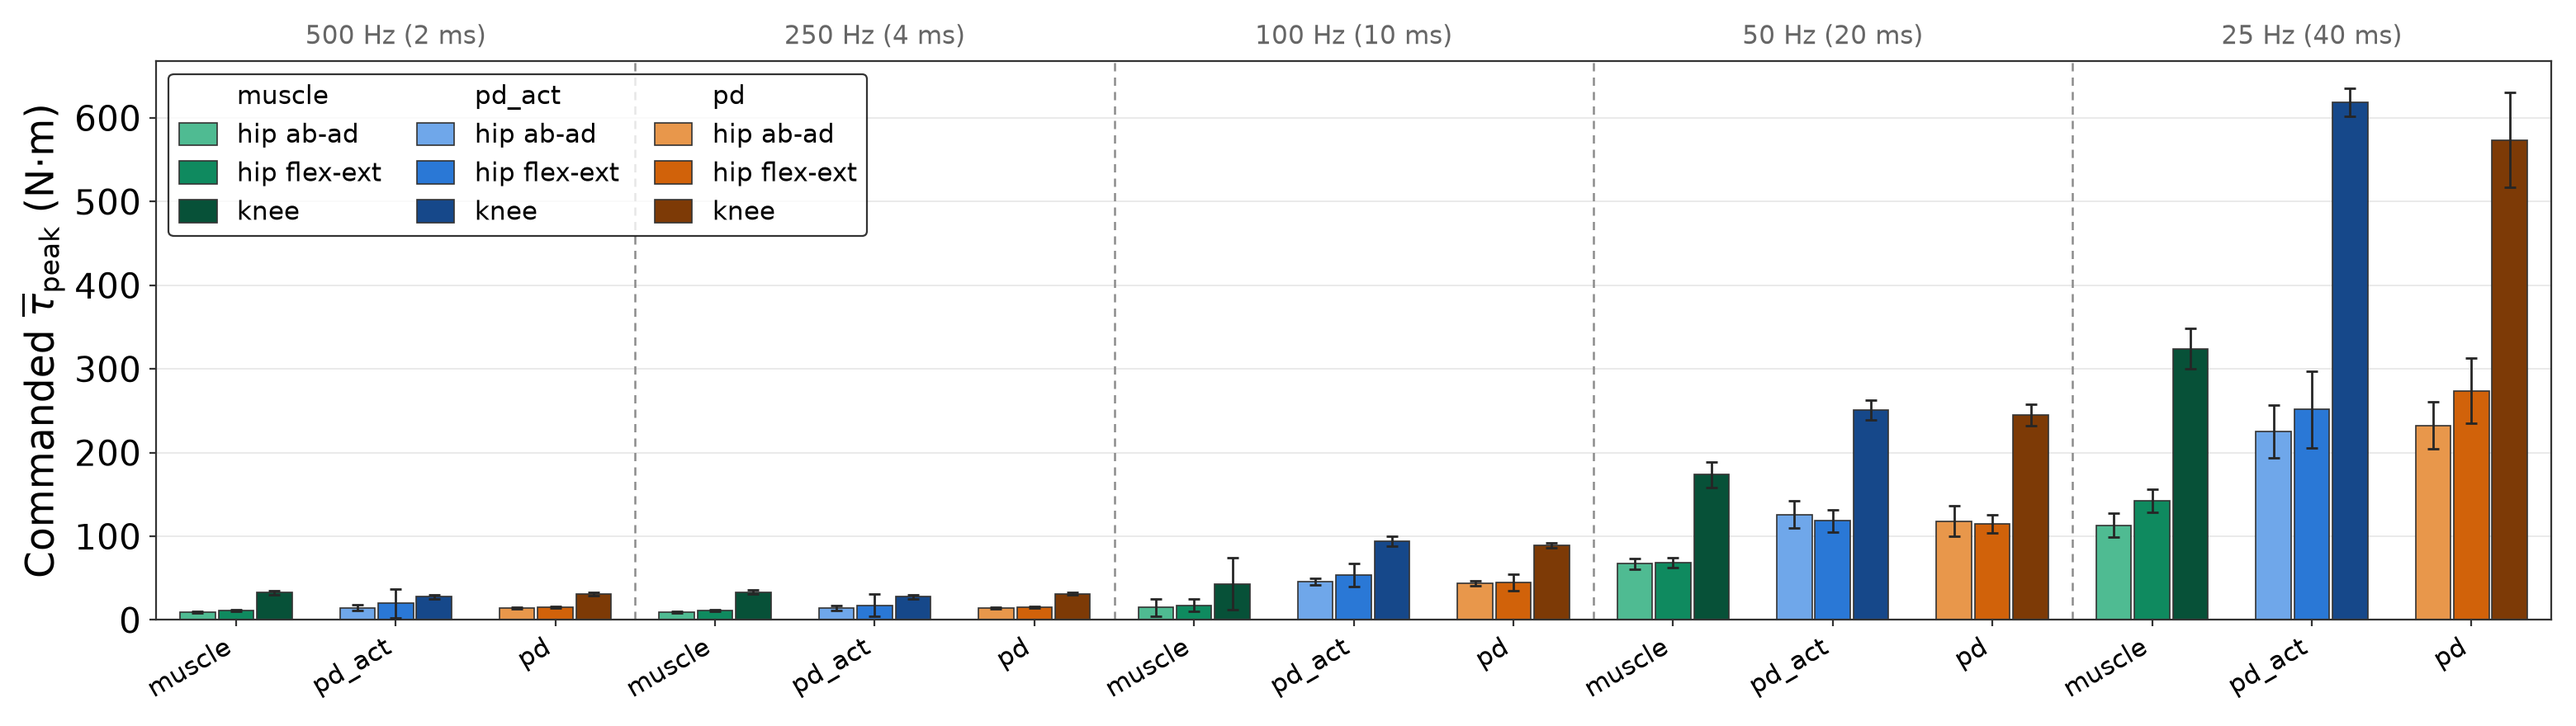
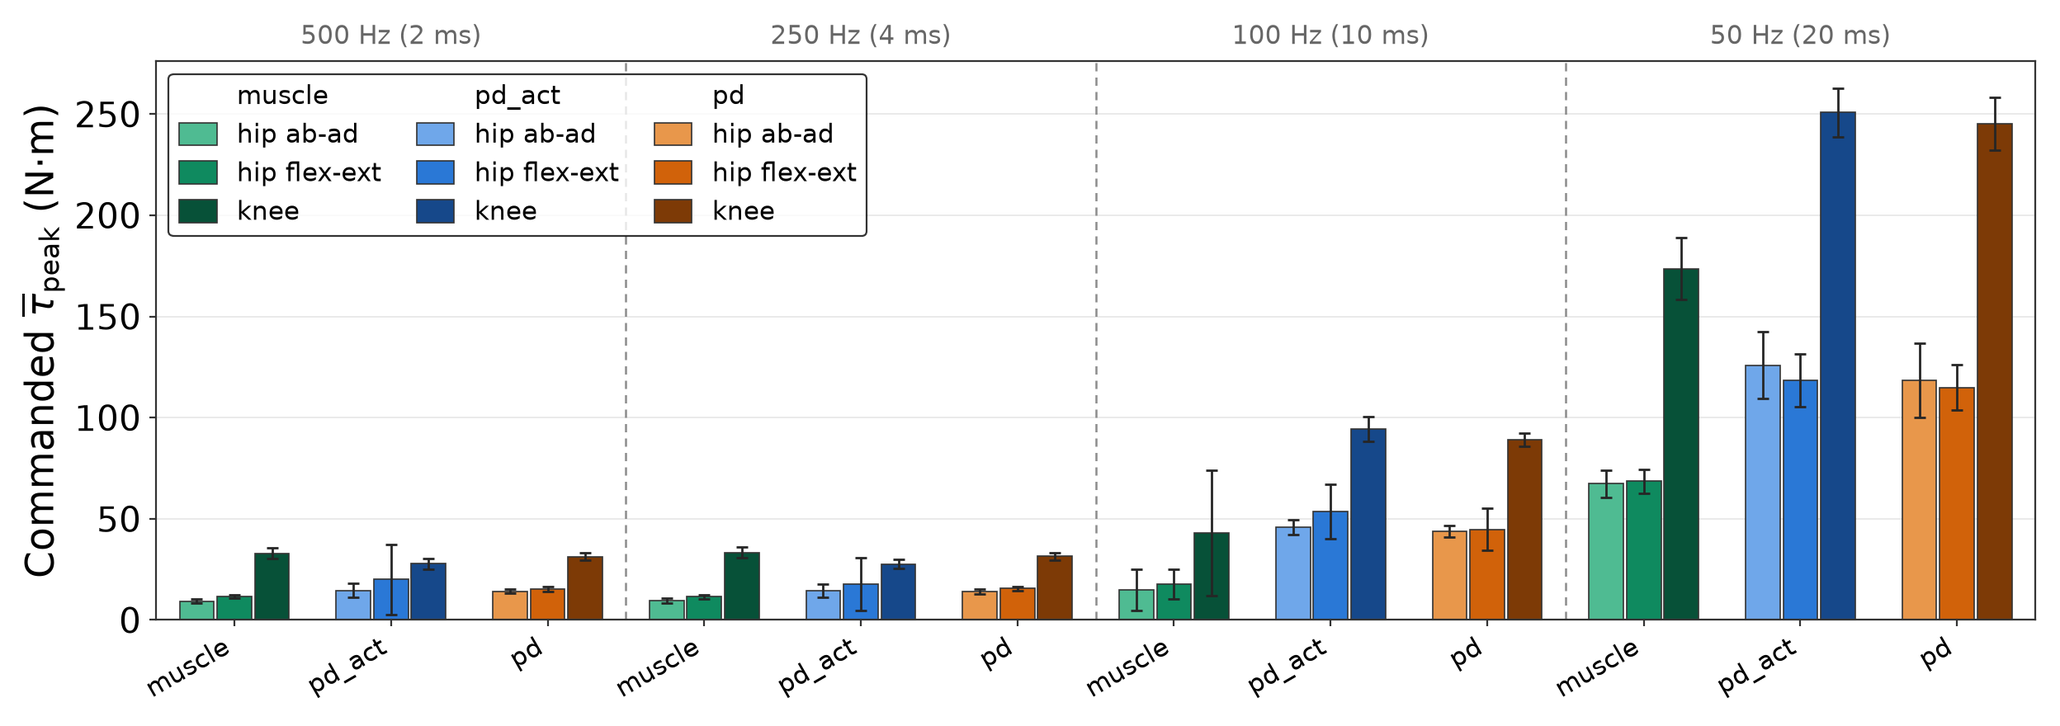
remove 25Hz from figs

diff --git a/analysis/plot/plot_ablation_bars.py b/analysis/plot/plot_ablation_bars.py
@@ -13,8 +13,9 @@ Studies, each on an x axis split into headed sections:
                 with muscle, pd_act and pd in each section. Each heading
                 gives the cutoff f and the motor's time constant 1/(2*pi*f).
     bandwidth_zoh   run_bandwidth.sh --lag zero_order_hold: motor update rate
-                500 | 250 | 100 | 50 | 25 Hz, same controllers. Each heading
-                gives the rate f and how long each command is held, 1/f.
+                500 | 250 | 100 | 50 Hz, same controllers (the 25 Hz runs are
+                left out; see ZOH_RATES). Each heading gives the rate f and how
+                long each command is held, 1/f.
 
 Outcome comes from each trial's console.log through
 select_representatives.parse_outcome(): success, fall (including falls
@@ -90,8 +91,11 @@ def bandwidth_heading(band):
     return f"{cutoff} Hz ({1000.0 / (2 * math.pi * f):.3g} ms)"
 
 
-# Zero-order-hold variant of the bandwidth sweep: motor update rates, fastest first.
-ZOH_RATES = ["500Hz", "250Hz", "100Hz", "50Hz", "25Hz"]
+# Zero-order-hold variant of the bandwidth sweep: motor update rates, fastest
+# first. The sweep also ran 25 Hz (trials still under bandwidth_zoh/); it is left
+# out because every run falls within about a second and its torque swamps the
+# other rates' scales.
+ZOH_RATES = ["500Hz", "250Hz", "100Hz", "50Hz"]
 
 
 def hold_heading(rate):

diff --git a/analysis/plot/plot_joint_torque.py b/analysis/plot/plot_joint_torque.py
@@ -11,7 +11,7 @@ study's representative rollouts (select_representatives.py).
       a panel per motor bandwidth (inf to 1 Hz), muscle, pd_act and pd overlaid
   torque_bandwidth_zoh_FR_calf.png
       the same for the zero-order-hold sweep: a panel per motor update rate
-      (500 to 25 Hz)
+      (500 to 50 Hz)
 
 Joint: the knee is where the breakdown conditions differ most (range of
 condition-mean |tau| 4.0-4.3 N.m, against at most 1.7 for any thigh), and the
